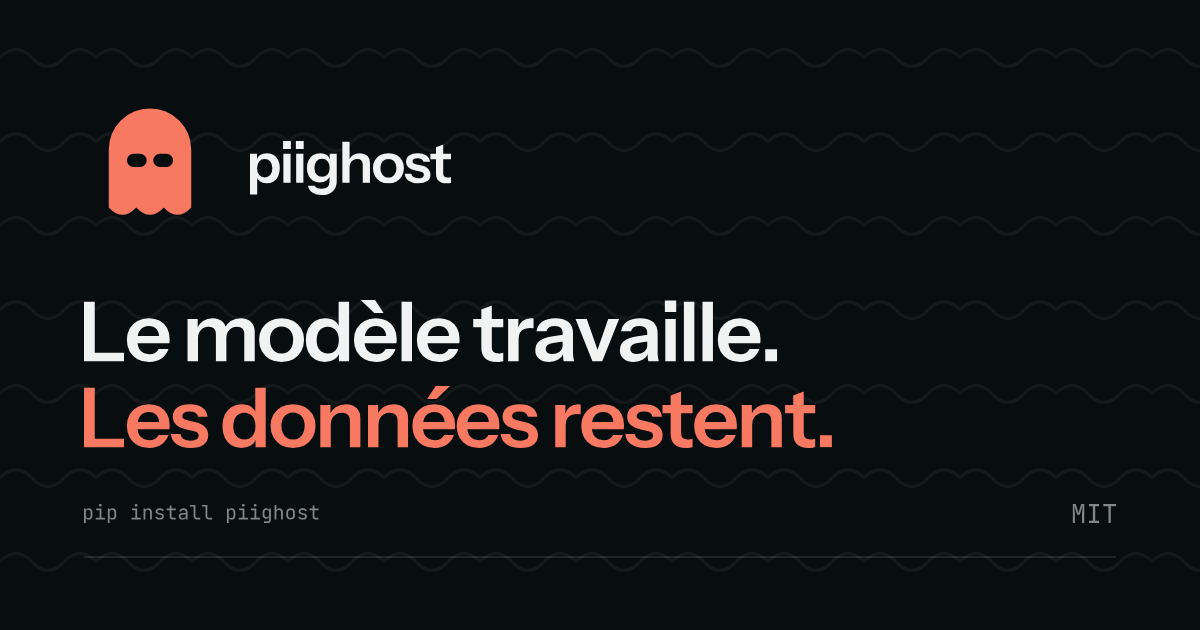
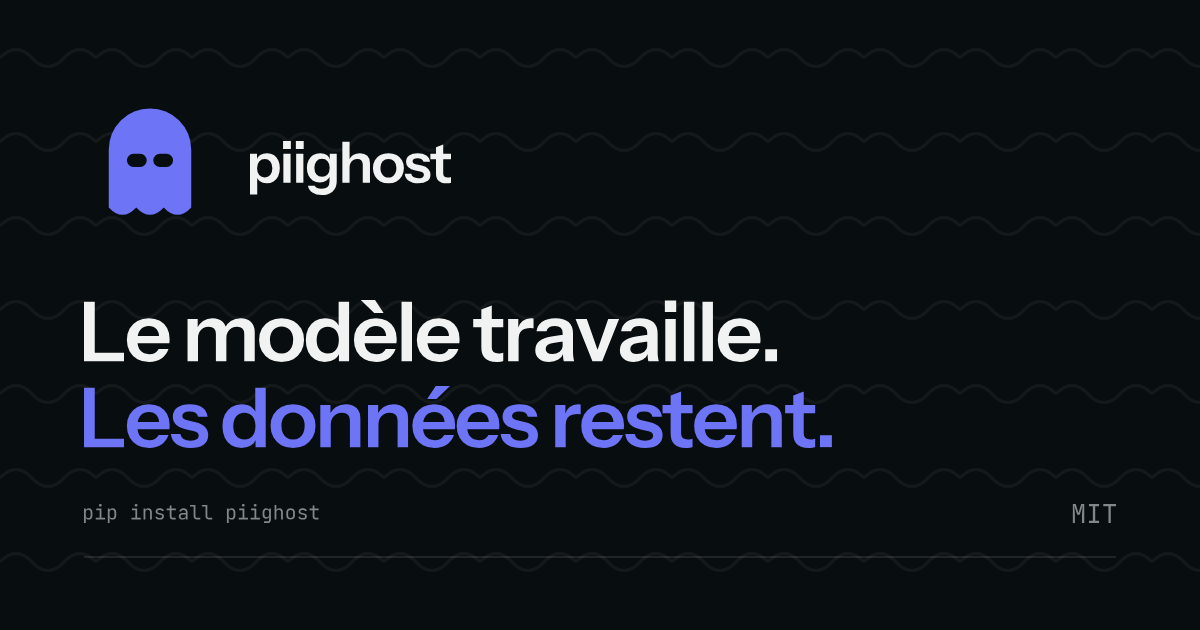
fix: derive the tokens again, and render in the typeface we chose
`app.css` goes back to being a copy of the generated target, which is what the
whole one-source design is for. It had been hand-extended with the code and
flag tokens; those now live in tokens.json, so the copy loses nothing.

What that single copy fixes:

  - the fonts. The site was rendering in system-ui, because the token asked for
    "Instrument Sans" and fontsource registers "Instrument Sans Variable". All
    metrics change: this is the first build where the page looks the way it was
    drawn;
  - `--chart-1` to `--chart-5`, still carrying version 1 hues. No consumer, so
    nothing moves on screen;
  - `--marque-corail*` becomes `--marque`, an alias of the primary.

`scripts/entites.mjs` goes. It was a second generator for one palette, and it
imported oklch.mjs through a relative path outside the repository, so it only
ran when the two checkouts happened to be neighbours.

Three smaller ones, each with a visible consequence:

  - `Logo.svelte` set a font size through a `style:` directive, which compiles
    to the attribute the production CSP blocks. The word shipped at 16px
    instead of 20.24 and no script fixed it after hydration. It is a rem class
    now, and the prerendered HTML holds zero style attributes;
  - the 404 ghost used a class pointing at `--marque-corail`, which has no dark
    value, so it fell to 3.11 against the dark ground. It takes `--primary`;
  - og.png was still the coral card from version 1, served to every link
    preview.
[…]

Changed region(s): [[0.0617, 0.6032, 0.7092, 0.7238], [0.0925, 0.1508, 0.185, 0.3619]]

diff --git a/frontend/src/app.css b/frontend/src/app.css
@@ -7,8 +7,9 @@
  * Cible : piighost-studio-v2, frontend/src/app.css, version Vite
  *
  * Direction : l'Évidence. Sur une interface, la seule couleur qui ne soit pas
- * de la donnée est --primary, plus --destructive pour les états d'erreur. Le
- * corail de marque n'a pas le droit d'apparaître ici.
+ * de la donnée est --primary, plus --destructive pour les états d'erreur.
+ * --primary est aussi la couleur de la marque depuis le 22 septembre 2026 : le
+ * corail est retiré, le fantôme se reconnaît à sa forme.
  *
  * Clair par défaut, sombre en classe sur <html>, jamais déduit du système.
  * Tout est une vraie feuille de style, jamais un style en ligne : la CSP de
@@ -101,63 +102,81 @@
   --sidebar-border: oklch(0.85 0.005 220);
   --sidebar-ring: oklch(0.51 0.23 277);
   --destructive-foreground: oklch(0.99 0.002 27);
-  --font-sans: "Instrument Sans", system-ui, sans-serif;
-  --font-mono: "JetBrains Mono", ui-monospace, SFMono-Regular, monospace;
+  --font-sans:
+    "Instrument Sans Variable", "Instrument Sans", system-ui, sans-serif;
+  --font-mono:
+    "JetBrains Mono Variable", "JetBrains Mono", ui-monospace, SFMono-Regular,
+    monospace;
   --font-heading: var(--font-sans);
   --radius: 0.5rem;
 
   /* Couleurs de donnée. */
-  --chart-1: oklch(0.62 0.1401 64.1);
-  --chart-2: oklch(0.62 0.1276 96.4);
-  --chart-3: oklch(0.62 0.16 128.6);
-  --chart-4: oklch(0.62 0.1383 160.9);
-  --chart-5: oklch(0.62 0.143 240.4);
+  --chart-1: oklch(0.62 0.16 27);
+  --chart-2: oklch(0.62 0.1535 55);
+  --chart-3: oklch(0.62 0.1271 85);
+  --chart-4: oklch(0.62 0.16 140);
+  --chart-5: oklch(0.62 0.1169 175);
   --entite-01-valeur-fond: oklch(0.935 0.0328 27);
   --entite-01-valeur-texte: oklch(0.53 0.15 27);
   --entite-01-jeton-fond: oklch(0.855 0.0786 27);
-  --entite-01-jeton-texte: oklch(0.465 0.15 27);
+  --entite-01-jeton-texte: oklch(0.47 0.15 27);
   --entite-01-puce: oklch(0.62 0.16 27);
   --entite-02-valeur-fond: oklch(0.935 0.0386 55);
-  --entite-02-valeur-texte: oklch(0.525 0.13 55);
+  --entite-02-valeur-texte: oklch(0.52 0.1288 55);
   --entite-02-jeton-fond: oklch(0.855 0.0918 55);
   --entite-02-jeton-texte: oklch(0.46 0.1139 55);
   --entite-02-puce: oklch(0.62 0.1535 55);
-  --entite-03-valeur-fond: oklch(0.935 0.05 85);
-  --entite-03-valeur-texte: oklch(0.515 0.1055 85);
-  --entite-03-jeton-fond: oklch(0.855 0.11 85);
-  --entite-03-jeton-texte: oklch(0.455 0.0933 85);
+  --entite-03-valeur-fond: oklch(0.935 0.068 85);
+  --entite-03-valeur-texte: oklch(0.52 0.1066 85);
+  --entite-03-jeton-fond: oklch(0.855 0.115 85);
+  --entite-03-jeton-texte: oklch(0.46 0.0943 85);
   --entite-03-puce: oklch(0.62 0.1271 85);
-  --entite-04-valeur-fond: oklch(0.935 0.05 140);
-  --entite-04-valeur-texte: oklch(0.505 0.15 140);
-  --entite-04-jeton-fond: oklch(0.855 0.11 140);
+  --entite-04-valeur-fond: oklch(0.935 0.068 140);
+  --entite-04-valeur-texte: oklch(0.51 0.15 140);
+  --entite-04-jeton-fond: oklch(0.855 0.115 140);
   --entite-04-jeton-texte: oklch(0.45 0.1449 140);
   --entite-04-puce: oklch(0.62 0.16 140);
-  --entite-05-valeur-fond: oklch(0.935 0.05 175);
-  --entite-05-valeur-texte: oklch(0.505 0.0952 175);
-  --entite-05-jeton-fond: oklch(0.855 0.11 175);
-  --entite-05-jeton-texte: oklch(0.455 0.0858 175);
+  --entite-05-valeur-fond: oklch(0.935 0.068 175);
+  --entite-05-valeur-texte: oklch(0.51 0.0962 175);
+  --entite-05-jeton-fond: oklch(0.855 0.115 175);
+  --entite-05-jeton-texte: oklch(0.46 0.0867 175);
   --entite-05-puce: oklch(0.62 0.1169 175);
-  --entite-06-valeur-fond: oklch(0.935 0.05 215);
+  --entite-06-valeur-fond: oklch(0.935 0.0509 215);
   --entite-06-valeur-texte: oklch(0.51 0.0901 215);
-  --entite-06-jeton-fond: oklch(0.855 0.11 215);
-  --entite-06-jeton-texte: oklch(0.455 0.0804 215);
+  --entite-06-jeton-fond: oklch(0.855 0.115 215);
+  --entite-06-jeton-texte: oklch(0.46 0.0813 215);
   --entite-06-puce: oklch(0.62 0.1095 215);
   --entite-07-valeur-fond: oklch(0.935 0.0334 245);
-  --entite-07-valeur-texte: oklch(0.515 0.1296 245);
+  --entite-07-valeur-texte: oklch(0.52 0.1309 245);
   --entite-07-jeton-fond: oklch(0.855 0.0769 245);
-  --entite-07-jeton-texte: oklch(0.455 0.1145 245);
+  --entite-07-jeton-texte: oklch(0.46 0.1158 245);
   --entite-07-puce: oklch(0.62 0.1561 245);
-  --entite-08-valeur-fond: oklch(0.935 0.05 330);
+  --entite-08-valeur-fond: oklch(0.935 0.0534 330);
   --entite-08-valeur-texte: oklch(0.53 0.15 330);
-  --entite-08-jeton-fond: oklch(0.855 0.11 330);
-  --entite-08-jeton-texte: oklch(0.465 0.15 330);
+  --entite-08-jeton-fond: oklch(0.855 0.115 330);
+  --entite-08-jeton-texte: oklch(0.47 0.15 330);
   --entite-08-puce: oklch(0.62 0.16 330);
 
-  /* Marque. INTERDIT sur toute surface qui affiche de la donnée.
-     Voir brand/territoires/decision.md. */
-  --marque-corail: oklch(0.51 0.23 277);
-  --marque-corail-texte: oklch(0.17 0.012 220);
-  --marque-corail-sombre: oklch(0.62 0.19 277);
+  /* Marque. Le corail est retiré : elle porte la couleur d'action.
+     Voir brand/charte/CHARTE.md, journal du 22 septembre 2026. */
+  --marque: var(--primary);
+
+  /* Coloration syntaxique : GitHub Primer, cité tel quel.
+     Seul hexadécimal du fichier, voir CHARTE.md section 8. */
+  --code-comment: #656d76;
+  --code-string: #0a3069;
+  --code-keyword: #cf222e;
+  --code-constant: #0550ae;
+  --code-entity: #6639ba;
+  --code-base: #24292f;
+
+  /* Drapeaux du sélecteur de langue. Ne suivent pas le thème :
+     un bleu marine éclairci en sombre serait un autre drapeau. */
+  --flag-white: #ffffff;
+  --flag-fr-blue: #0055a4;
+  --flag-fr-red: #ef4135;
+  --flag-us-blue: #0a3161;
+  --flag-us-red: #b31942;
 }
 
 .dark {
@@ -190,51 +209,60 @@
   --destructive-foreground: oklch(0.18 0.03 27);
 
   /* Couleurs de donnée. */
-  --chart-1: oklch(0.62 0.1401 64.1);
-  --chart-2: oklch(0.62 0.1276 96.4);
-  --chart-3: oklch(0.62 0.16 128.6);
-  --chart-4: oklch(0.62 0.1383 160.9);
-  --chart-5: oklch(0.62 0.143 240.4);
-  --entite-01-valeur-fond: oklch(0.305 0.07 27);
-  --entite-01-valeur-texte: oklch(0.7 0.13 27);
+  --chart-1: oklch(0.62 0.16 27);
+  --chart-2: oklch(0.62 0.1535 55);
+  --chart-3: oklch(0.62 0.1271 85);
+  --chart-4: oklch(0.62 0.16 140);
+  --chart-5: oklch(0.62 0.1169 175);
+  --entite-01-valeur-fond: oklch(0.305 0.068 27);
+  --entite-01-valeur-texte: oklch(0.69 0.13 27);
   --entite-01-jeton-fond: oklch(0.4 0.09 27);
-  --entite-01-jeton-texte: oklch(0.785 0.1249 27);
+  --entite-01-jeton-texte: oklch(0.78 0.1285 27);
   --entite-01-puce: oklch(0.62 0.16 27);
-  --entite-02-valeur-fond: oklch(0.305 0.07 55);
-  --entite-02-valeur-texte: oklch(0.7 0.13 55);
+  --entite-02-valeur-fond: oklch(0.305 0.068 55);
+  --entite-02-valeur-texte: oklch(0.68 0.13 55);
   --entite-02-jeton-fond: oklch(0.4 0.09 55);
-  --entite-02-jeton-texte: oklch(0.785 0.13 55);
+  --entite-02-jeton-texte: oklch(0.78 0.13 55);
   --entite-02-puce: oklch(0.62 0.1535 55);
   --entite-03-valeur-fond: oklch(0.305 0.0625 85);
-  --entite-03-valeur-texte: oklch(0.7 0.13 85);
+  --entite-03-valeur-texte: oklch(0.68 0.13 85);
   --entite-03-jeton-fond: oklch(0.4 0.082 85);
-  --entite-03-jeton-texte: oklch(0.785 0.13 85);
+  --entite-03-jeton-texte: oklch(0.78 0.13 85);
   --entite-03-puce: oklch(0.62 0.1271 85);
-  --entite-04-valeur-fond: oklch(0.305 0.07 140);
-  --entite-04-valeur-texte: oklch(0.7 0.13 140);
+  --entite-04-valeur-fond: oklch(0.305 0.068 140);
+  --entite-04-valeur-texte: oklch(0.67 0.13 140);
   --entite-04-jeton-fond: oklch(0.4 0.09 140);
   --entite-04-jeton-texte: oklch(0.78 0.13 140);
   --entite-04-puce: oklch(0.62 0.16 140);
   --entite-05-valeur-fond: oklch(0.305 0.0575 175);
-  --entite-05-valeur-texte: oklch(0.7 0.13 175);
+  --entite-05-valeur-texte: oklch(0.67 0.1263 175);
   --entite-05-jeton-fond: oklch(0.4 0.0754 175);
-  --entite-05-jeton-texte: oklch(0.78 0.13 175);
+  --entite-05-jeton-texte: oklch(0.77 0.13 175);
   --entite-05-puce: oklch(0.62 0.1169 175);
   --entite-06-valeur-fond: oklch(0.305 0.0539 215);
-  --entite-06-valeur-texte: oklch(0.7 0.1237 215);
+  --entite-06-valeur-texte: oklch(0.67 0.1184 215);
   --entite-06-jeton-fond: oklch(0.4 0.0707 215);
   --entite-06-jeton-texte: oklch(0.78 0.13 215);
   --entite-06-puce: oklch(0.62 0.1095 215);
-  --entite-07-valeur-fond: oklch(0.305 0.07 245);
-  --entite-07-valeur-texte: oklch(0.7 0.13 245);
+  --entite-07-valeur-fond: oklch(0.305 0.068 245);
+  --entite-07-valeur-texte: oklch(0.68 0.13 245);
   --entite-07-jeton-fond: oklch(0.4 0.09 245);
   --entite-07-jeton-texte: oklch(0.78 0.12 245);
   --entite-07-puce: oklch(0.62 0.1561 245);
-  --entite-08-valeur-fond: oklch(0.305 0.07 330);
-  --entite-08-valeur-texte: oklch(0.7 0.13 330);
+  --entite-08-valeur-fond: oklch(0.305 0.068 330);
+  --entite-08-valeur-texte: oklch(0.68 0.13 330);
   --entite-08-jeton-fond: oklch(0.4 0.09 330);
-  --entite-08-jeton-texte: oklch(0.785 0.13 330);
+  --entite-08-jeton-texte: oklch(0.78 0.13 330);
   --entite-08-puce: oklch(0.62 0.16 330);
+
+  /* Coloration syntaxique : GitHub Primer, cité tel quel.
+     Seul hexadécimal du fichier, voir CHARTE.md section 8. */
+  --code-comment: #8b949e;
+  --code-string: #a5d6ff;
+  --code-keyword: #ff7b72;
+  --code-constant: #79c0ff;
+  --code-entity: #d2a8ff;
+  --code-base: #c9d1d9;
 }
 
 @layer base {
@@ -353,47 +381,4 @@
 }
 .entite-08-puce {
   background-color: var(--entite-08-puce);
-}
-
-/* Les deux drapeaux du sélecteur de langue. Ni tokens de charte ni suivis du
-   thème, et c'est voulu : la couleur d'un drapeau est fixée par le drapeau, et
-   un bleu marine éclairci en mode sombre serait un autre drapeau. Ils vivent
-   ici parce qu'un composant ne porte aucune couleur brute. */
-:root {
-  --flag-white: #ffffff;
-  --flag-fr-blue: #0055a4;
-  --flag-fr-red: #ef4135;
-  --flag-us-blue: #0a3161;
-  --flag-us-red: #b31942;
-}
-
-/* La coloration syntaxique : GitHub Primer, repris tel quel.
- *
- * En hexadécimal et non en oklch, contrairement au reste du fichier, et c'est
- * volontaire : ce sont les valeurs publiées de github.com, et les convertir
- * effacerait ce qui permet de les vérifier contre la source. Elles ne
- * participent pas au système de la charte, elles citent un autre système.
- *
- * Un seul écart : le gris des commentaires en clair. Primer le pose sur du
- * blanc pur, où son #6e7781 tient 4.5:1 ; notre bloc de code est sur
- * #f4f5f6 et il y tombe à 4.17, sous le seuil du corps de texte. #656d76,
- * que Primer emploie lui-même ailleurs, rend 4.81. Tout le reste passe : le
- * minimum est 4.62 en clair et 6.04 en sombre.
- */
-:root {
-  --code-comment: #656d76;
-  --code-string: #0a3069;
-  --code-keyword: #cf222e;
-  --code-constant: #0550ae;
-  --code-entity: #8250df;
-  --code-base: #24292f;
-}
-
-.dark {
-  --code-comment: #8b949e;
-  --code-string: #a5d6ff;
-  --code-keyword: #ff7b72;
-  --code-constant: #79c0ff;
-  --code-entity: #d2a8ff;
-  --code-base: #c9d1d9;
 }

diff --git a/frontend/src/lib/labels.ts b/frontend/src/lib/labels.ts
@@ -5,12 +5,15 @@
  *   hue       which category the value belongs to. Assigned on first
  *             appearance and stable for a whole run, so the eye can follow one
  *             value from the input, to its placeholder, to the result.
- *   intensity whether it is still in clear or already masked. `valeur` is the
- *             pale level, `jeton` the reinforced one.
  *
- * Nothing else. No underline, no outline: six second channels were rendered
- * and compared before settling on this one. See brand/tokens/README.md in
- * piighost-identite.
+ * That is the whole of it. The intensity used to carry a second fact, whether
+ * a value was still in clear or already masked, `valeur` pale against `jeton`
+ * reinforced. That rule was retired on 22 September 2026: a value and its
+ * placeholder now wear the same colour and the text alone says which is which.
+ *
+ * `jeton` is still generated and this site no longer asks for it. The two
+ * levels stay in the contract because the hub and the local runner share this
+ * file byte for byte. See brand/tokens/README.md in piighost-identite.
  *
  * Colours come from CSS classes, never from a `style` attribute: the
  * production CSP is `style-src 'self'` with no `unsafe-inline`. They are also

diff --git a/frontend/src/pages/Introuvable.svelte b/frontend/src/pages/Introuvable.svelte
@@ -9,8 +9,8 @@
    * elle n'est pas dans le dictionnaire là-bas non plus, et une URL inconnue
    * n'a pas de langue.
    *
-   * C'est la seule page du site qui n'affiche aucune donnée, donc la seule où
-   * le corail de marque est autorisé. Voir CHARTE.md section 2.
+   * Le fantôme y porte la couleur de la marque, qui est celle des actions
+   * depuis que le corail est retiré. Voir CHARTE.md section 2.
    */
   const accueil = lien("home", router.locale ?? localePreferee());
 </script>
@@ -18,7 +18,7 @@
 <div
   class="mx-auto flex max-w-3xl flex-col items-center px-4 py-32 text-center"
 >
-  <Ghost size={64} class="corail" />
+  <Ghost size={64} class="text-primary" />
   <p class="mt-6 font-mono text-6xl font-bold text-primary">404</p>
   <h1 class="mt-4 text-2xl font-semibold">
     This page slipped past the placeholder

diff --git a/frontend/src/studio.css b/frontend/src/studio.css
@@ -36,13 +36,6 @@ html {
   animation: hiw-progress 10000ms linear forwards;
 }
 
-/* Le corail de marque. Interdit sur une surface qui affiche de la donnée : la
-   seule page du site qui n'en affiche aucune est la page d'erreur, où le
-   fantôme peut enfin être de la couleur de la marque. */
-.corail {
-  color: var(--marque-corail);
-}
-
 /* La coloration syntaxique. Le studio appelle shiki au rendu serveur, qui émet
    des styles en ligne que la CSP refuse : la tokenisation vit donc dans
    lib/highlight.ts et les couleurs sont des classes.

diff --git a/frontend/src/components/Logo.svelte b/frontend/src/components/Logo.svelte
@@ -16,5 +16,5 @@
 
 <span class="inline-flex items-center gap-2 font-semibold tracking-[-0.03em]">
   <Ghost {size} class="text-primary" />
-  <span style:font-size="{size * 0.92}px">piighost</span>
+  <span class="text-[1.265rem]">piighost</span>
 </span>
